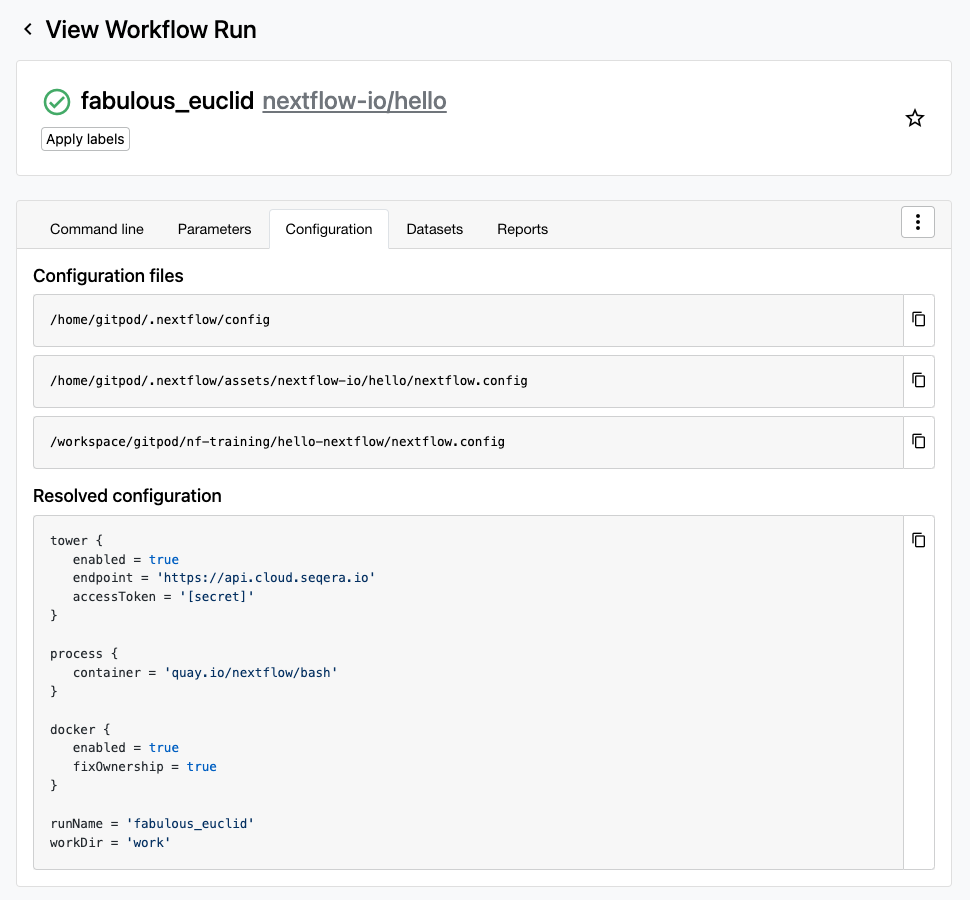
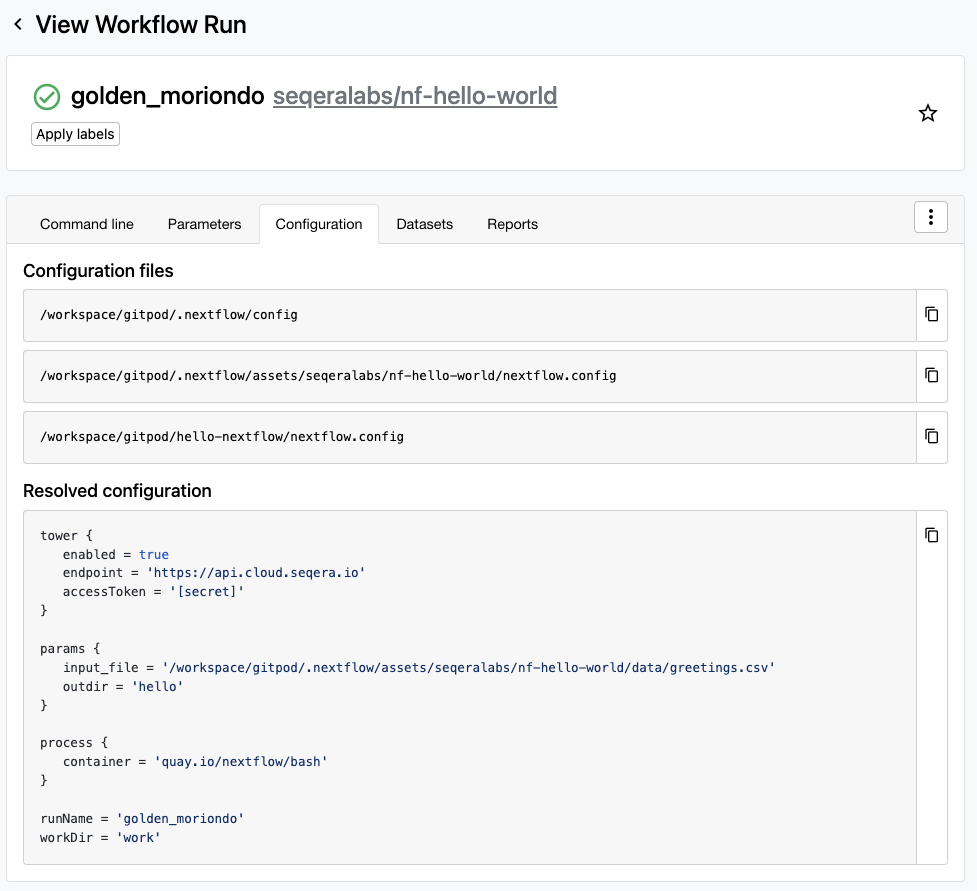
NXF_HOME fixes

diff --git a/docs/hello_nextflow/seqera/01_run_with_cli.md b/docs/hello_nextflow/seqera/01_run_with_cli.md
@@ -69,7 +69,11 @@ You will see and be able to monitor your **Nextflow jobs** in Seqera Platform.
 
 ### 1.3. Set up Seqera Platform in Nextflow configuration
 
-Doing that token setup regularly can become tedious, so let's set this configuration for all our pipeline runs with the global Nextflow configuration file located at `$HOME/.nextflow/config`.
+Doing that token setup regularly can become tedious, so let's set this configuration for all our pipeline runs with the global Nextflow configuration file located at `$NXF_HOME/.nextflow/config`.
+
+!!! hint "Home directory configuration"
+
+    If `NFX_HOME` is not set, these changes would be added to `$HOME/.nextflow/config`
 
 Before we set the configuration, we need to permanently store the token from our environment in Nextflow using a [Nextflow secret](https://www.nextflow.io/docs/latest/secrets.html):
 
@@ -83,15 +87,15 @@ Make sure your token was saved using:
 nextflow secrets get tower_access_token
 ```
 
-Next, open the Nextflow configuration file located at `$HOME/.nextflow/config`:
+Next, open the Nextflow configuration file located at `$NXF_HOME/.nextflow/config`:
 
 ```bash
-code $HOME/.nextflow/config
+code $NXF_HOME/.nextflow/config
 ```
 
 Then add the following block of configuration:
 
-```groovy title="$HOME/.nextflow/config"
+```groovy title="$NXF_HOME/.nextflow/config"
 tower {
     enabled = true
     endpoint = "https://api.cloud.seqera.io"
@@ -113,14 +117,14 @@ nextflow run nextflow-io/hello
 You will see the following output:
 
 ```console title="Output"
- N E X T F L O W   ~  version 24.10.2
+  N E X T F L O W   ~  version 24.10.3
 
-Launching `https://github.com/seqeralabs/nf-hello-world` [scruffy_banach] DSL2 - revision: 8274d3d10c [master]
+Launching `https://github.com/seqeralabs/nf-hello-world` [golden_moriondo] DSL2 - revision: 8274d3d10c [master]
 
-Monitor the execution with Seqera Platform using this URL: https://cloud.seqera.io/user/jonathan-manning2/watch/1Z3Jl1AXYRqXNx
+Monitor the execution with Seqera Platform using this URL: https://cloud.seqera.io/user/jonathan-manning2/watch/1lzYhUz4ziHcYD
 executor >  local (6)
-[47/93f584] process > sayHello (2)       [100%] 3 of 3 ✔
-[2a/0dc4a3] process > convertToUpper (3) [100%] 3 of 3 ✔
+[30/30a42c] process > sayHello (3)       [100%] 3 of 3 ✔
+[ea/293e98] process > convertToUpper (3) [100%] 3 of 3 ✔
 ```
 
 Note that we are logging to Seqera Platform even though we did not use the `-with-tower` command!
@@ -134,8 +138,8 @@ If you ran your pipeline from the `hello_nextflow` directory, you'll see somethi
 
 Notice that configuration for our pipeline run is being run pulled from three separate files:
 
-- `/home/gitpod/.nextflow/config` - This is the global configuration file we just added.
-- `/home/gitpod/.nextflow/assets/nextflow-io/hello/nextflow.config` - This is the `nextflow.config` file from the `nextflow-io/hello` repository.
+- `/workspace/gitpod/.nextflow/config` - This is the global configuration file we just added.
+- `/workspace/gitpod/.nextflow/assets/seqeralabs/nf-hello-world/nextflow.config` - This is the `nextflow.config` file from the `seqeralabs/nf-hello-world` repository.
 - `/workspace/gitpod/nf-training/hello-nextflow/nextflow.config` - This is the `nextflow.config` file from our current working directory.
 
 Nextflow resolves these configurations at runtime with a [specific order of precedence](https://www.nextflow.io/docs/latest/config.html#configuration-file).
